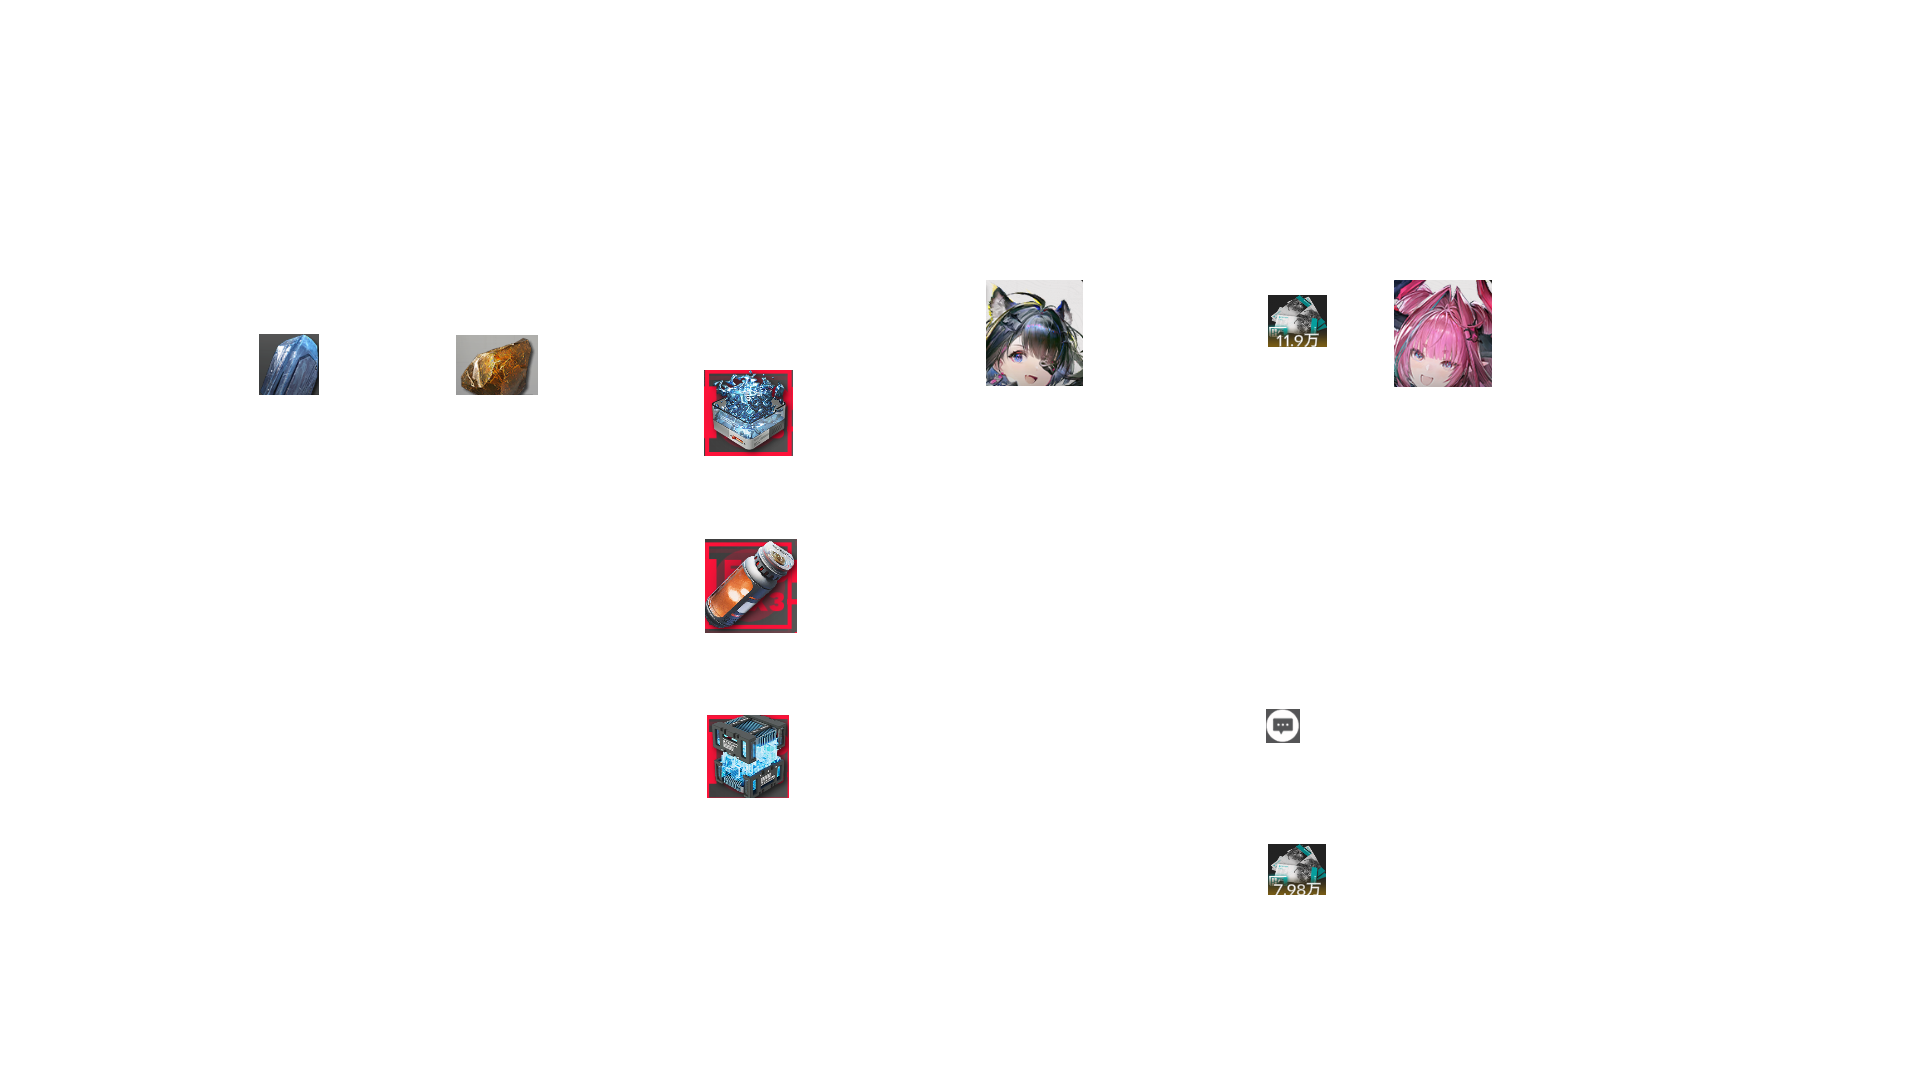
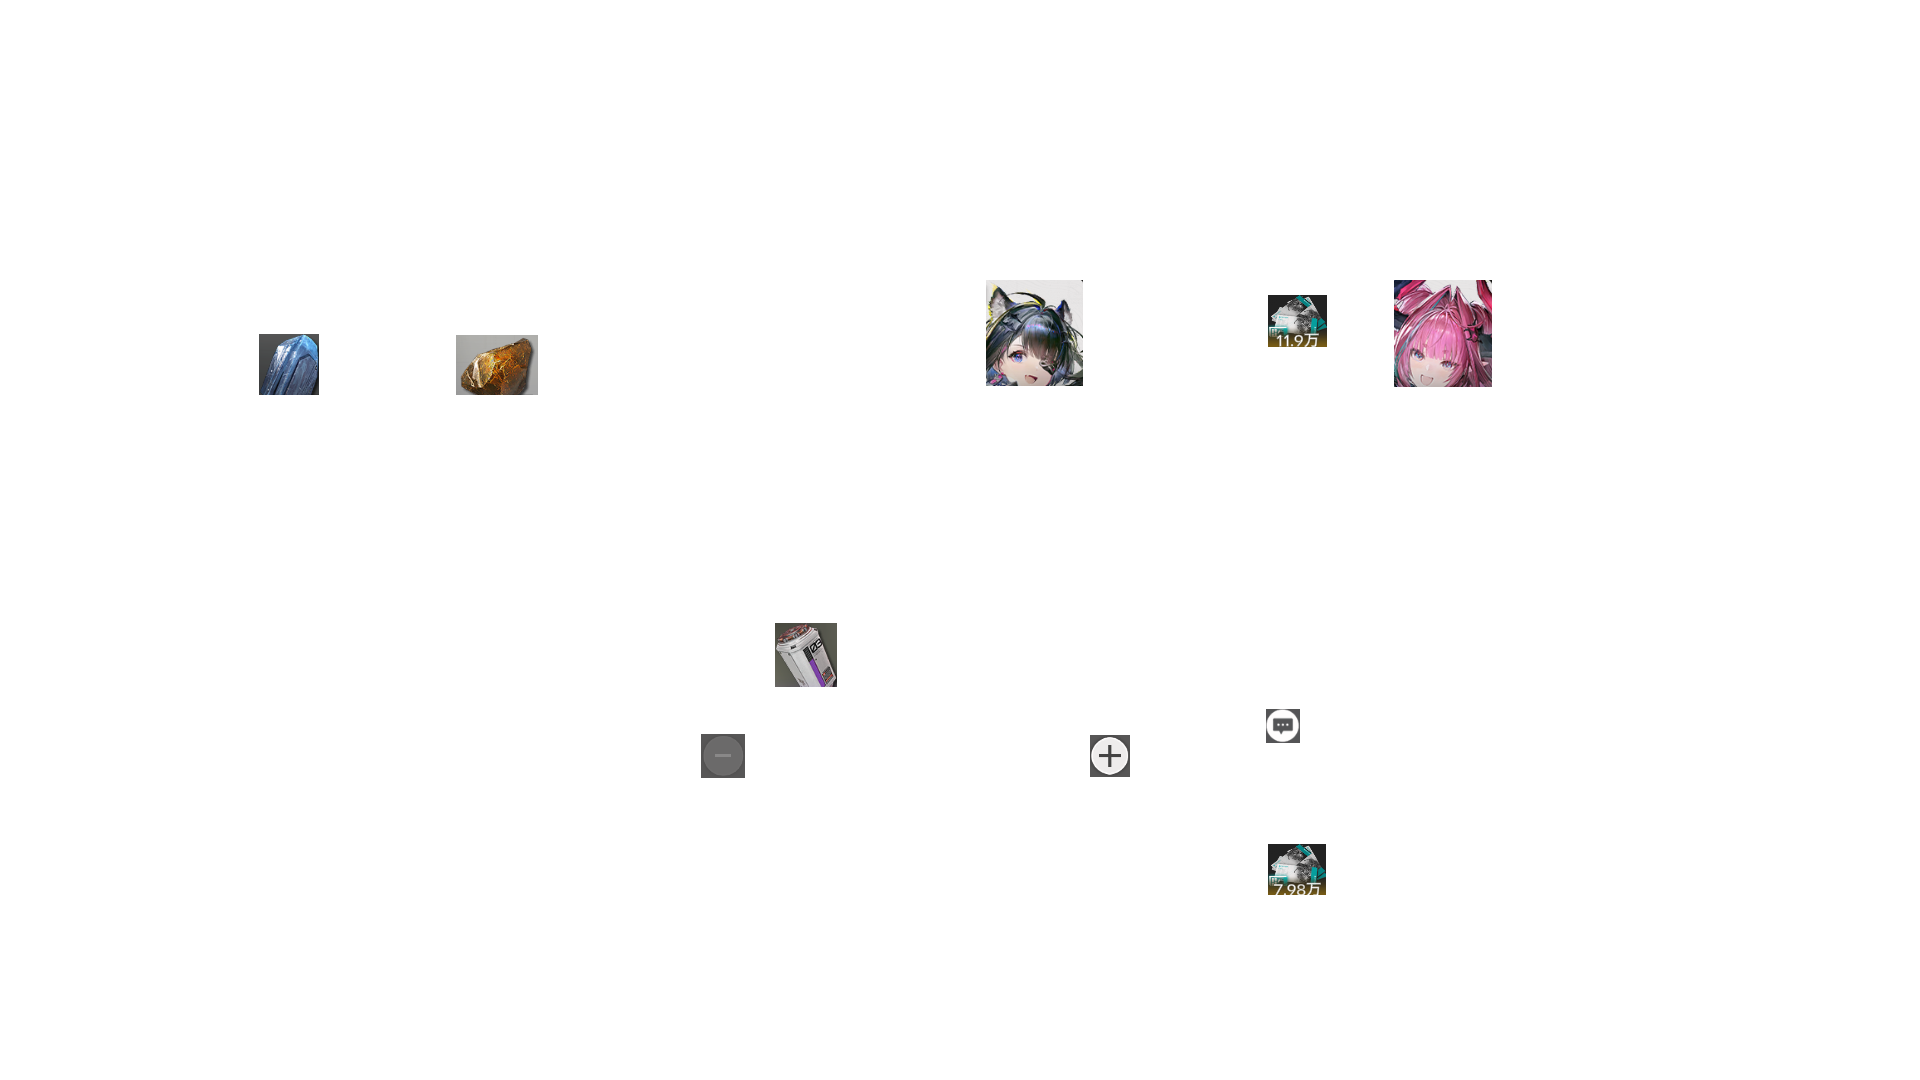
新增体力药图标和相关逻辑，优化体力消耗策略

diff --git a/src/tasks/daily/daily_battle_mixin.py b/src/tasks/daily/daily_battle_mixin.py
@@ -90,6 +90,7 @@ class DailyBattleMixin(MapMixin, ZipLineMixin, BattleMixin, Common):
             {
                 "⭐刷体力": [
                     "消耗限时体力药",
+                    "体力本",
                     "体力本配置",
                     # 如果要把 gather_list 里的 key 也折叠
                     "战斗相关选项",
@@ -116,8 +117,8 @@ class DailyBattleMixin(MapMixin, ZipLineMixin, BattleMixin, Common):
                 "是否消耗所有「理智」刷取培养材料。"
             ),
             "消耗限时体力药": (
-                "如果勾选，那么对于随机某项 m 个限时 n 天的体力药，\n"
-                "使用其中的 2*m/n 个（向上取整）。"
+                "如果勾选，将优先全部用掉限时为‘小时’的体力药，\n"
+                "如有‘天’单位的体力药，则按 2*m/n（向上取整）消耗。"
             ),
             "体力本": (
                 "刷取哪个副本。所选副本必须领完所有等级的首通奖励。"
@@ -393,7 +394,8 @@ class DailyBattleMixin(MapMixin, ZipLineMixin, BattleMixin, Common):
         if not self.config.get("消耗限时体力药", False):
             return True
 
-        self.click(3530 / 3840, 80 / 2160, after_sleep=2)  # 右上角加号
+        self.wait_click_feature(feature=fL.stamina_plus_icon, vertical_variance=0.01, horizontal_variance=0.01, time_out=5, box=self.box_of_screen((3530-40) / 3840, 0, (3600) / 3840, (80+40) / 2160))  # 右上角加号
+        self.wait_ocr(match=re.compile("恢复理智"), time_out=5, box=self.box.top_left)
         # 支持天和小时单位，按剩余时效升序消耗
         box_list = self.ocr(x=0.28, y=0.45, to_x=0.88, to_y=0.66, match=re.compile(r"(\d+)(天|小时)"))
         if not box_list:
@@ -480,7 +482,7 @@ class DailyBattleMixin(MapMixin, ZipLineMixin, BattleMixin, Common):
             self.battle_ctx.no_battle = self.config.get("仅站桩", False)
 
             self.battle_ctx.extra_run_limit = max(0, int(self.config.get("体力刷完后继续刷取次数", 0) or 0))
-            
+
             # 检查是否支持体力刷完后继续刷取
             if self.battle_ctx.extra_run_limit > 0:
                 if self.battle_ctx.category_name != "能量淤积点":

diff --git a/src/data/FeatureList.py b/src/data/FeatureList.py
@@ -111,6 +111,7 @@ class FeatureList(str, Enum):
     skip_dialog_esc = 'skip_dialog_esc'
     snowshine_contact = 'snowshine_contact'
     source_ore = 'source_ore'
+    stamina_plus_icon = 'stamina_plus_icon'
     switch_q = 'switch_q'
     tangtang_contact = 'tangtang_contact'
     ticket_valley = 'ticket_valley'

diff --git a/src/config.py b/src/config.py
@@ -5,7 +5,7 @@ from ok import ConfigOption
 from src.interaction.EfInteraction import EfInteraction
 from src.interaction.KeyConfig import DEFAULT_COMMON_KEYS, DEFAULT_INDUSTRY_KEYS, DEFAULT_COMBAT_KEYS
 
-version = "v0.2.84"
+version = "v0.2.85"
 
 
 # 不需要修改version, Github Action打包会自动修改

diff --git a/docs/体力本.md b/docs/体力本.md
@@ -30,7 +30,10 @@
 
 ## 消耗限时体力药
 
-若启用选项『消耗限时体力药』，程序会在每次刷体力前检测背包中限时应急理智加强剂的剩余天数和数量，并按以下公式计算本次使用数量：
+若启用选项『消耗限时体力药』，程序会在每次刷体力前检测背包中限时应急理智加强剂的剩余时效和数量：
+
+- **若存在“小时”单位的体力药，会优先全部用掉。**
+- **若为“天”单位，则按以下公式消耗：**
 
 > 使用数量 = min(max(1, ceil(2 × 数量 ÷ 剩余天数)), 数量)
 
